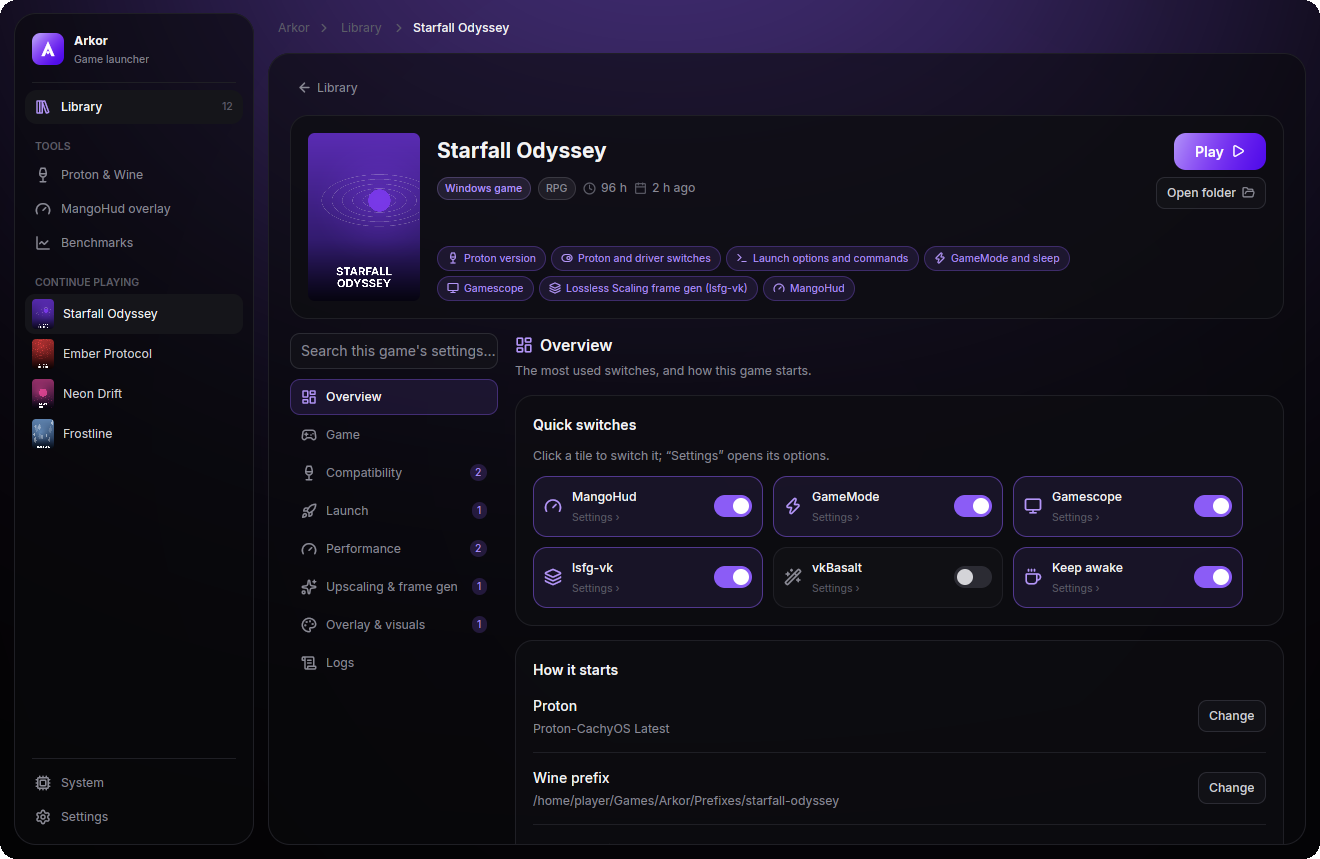
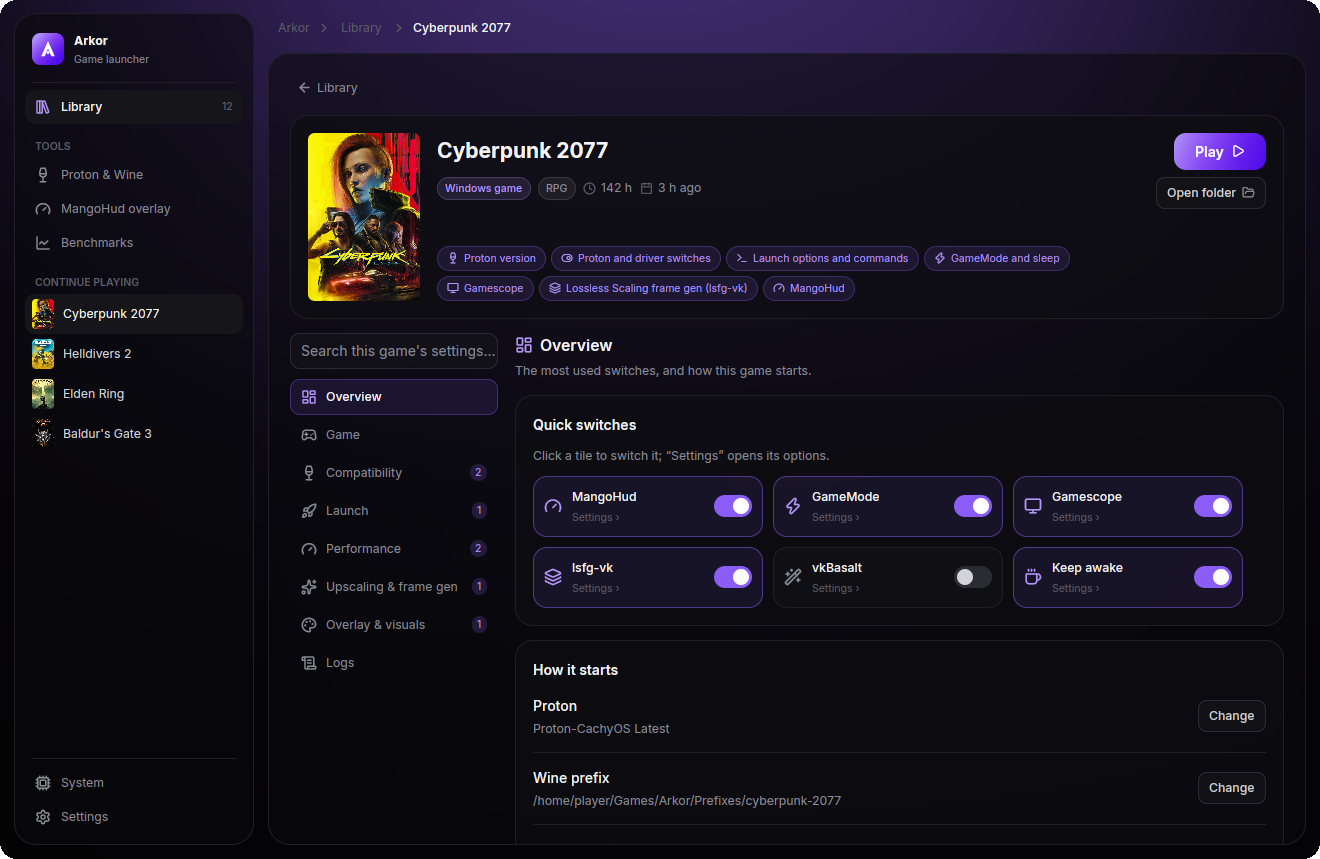
README: screenshots with real games
The library and game pages now show real games with their SteamGridDB
covers, credited under the screenshots.

diff --git a/README.md b/README.md
@@ -74,7 +74,7 @@ Heroic) for Epic games, `vkbasalt`.
   </tr>
 </table>
 
-<sub>The games in these pictures are made up for the screenshots.</sub>
+<sub>Cover art from <a href="https://www.steamgriddb.com">SteamGridDB</a>; the games and their art belong to their publishers.</sub>
 
 <a id="features"></a>
 
